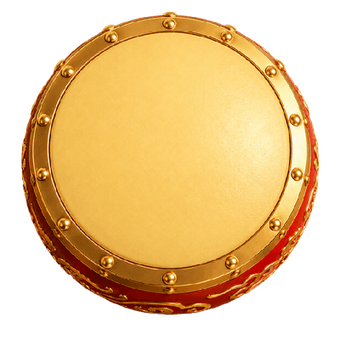
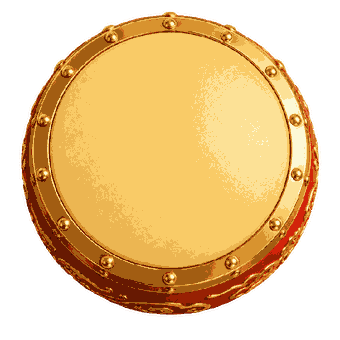
feat: 舞狮趣闻卡片落地 — 3张资讯卡片替换空占位
- 图片来源: 全部内容/卡片1.png→card-news-secret.png (狮头颜色小秘密)
- 图片来源: 全部内容/卡片2.jpg→card-news-caiqing.jpg (小狮怎么采青)
- 图片来源: 全部内容/卡片3.jpg→card-news-liubei.jpg (刘备狮是谁)
- 布局: 双列网格,左列1张+右列2张,对齐Figma设计
- 样式: 16px圆角/白色背景/标题PingFangSC黑/描述DIN灰#7D7D7D
- 优化: drum-face.png 142KB→13KB (量化64色),卡片全部压缩<10KB
- 包体积: 1924KB/2048KB
- 点击提示'开发中'

diff --git a/miniprogram/pages/index/index.js b/miniprogram/pages/index/index.js
@@ -27,5 +27,11 @@ Page({
   /* 涂色装饰 */
   onColorTap() {
     wx.navigateTo({ url: '/pages/color/color' })
+  },
+
+  /* 舞狮趣闻卡片点击 */
+  onNewsTap(e) {
+    const { id } = e.currentTarget.dataset
+    wx.showToast({ title: '开发中', icon: 'none', duration: 1500 })
   }
 })
